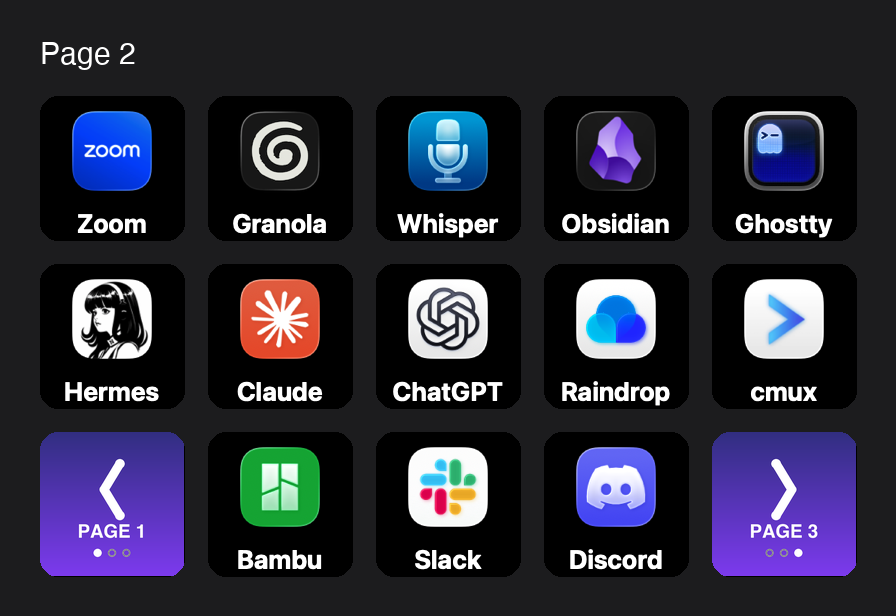
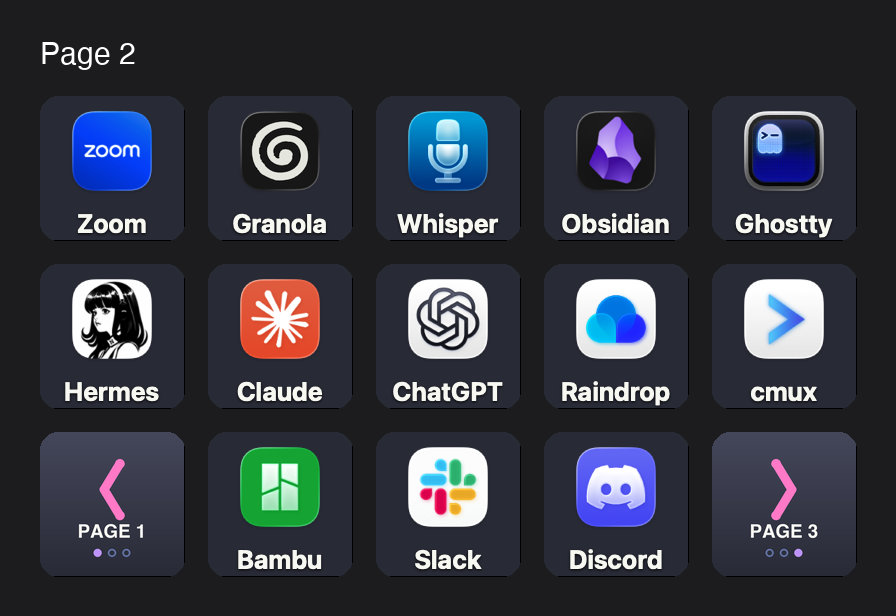
:memo: Update Stream Deck page 2 for Dracula theme

diff --git a/docs/stream-deck.md b/docs/stream-deck.md
@@ -27,6 +27,13 @@ On the Mac Studio, page 2 of the 15-key deck's default profile is an app
 launcher. Each key opens an app from `/Applications`. The bottom corners
 switch pages and wrap around between pages 1 and 3.
 
+The key images use the [Dracula](https://draculatheme.com) theme, to
+match the terminal and these docs. The keys have a Dracula background
+(`#282a36`) and foreground labels (`#f8f8f2`), and the navigation keys
+have pink chevrons and purple page dots. App icons are left as they
+are. Each layout spec picks its theme with a top-level `"theme"` key
+(`default` or `dracula`).
+
 ![Stream Deck page 2 on the Mac Studio](images/stream-deck-studio-page-2.png)
 
 | Row | Keys |
